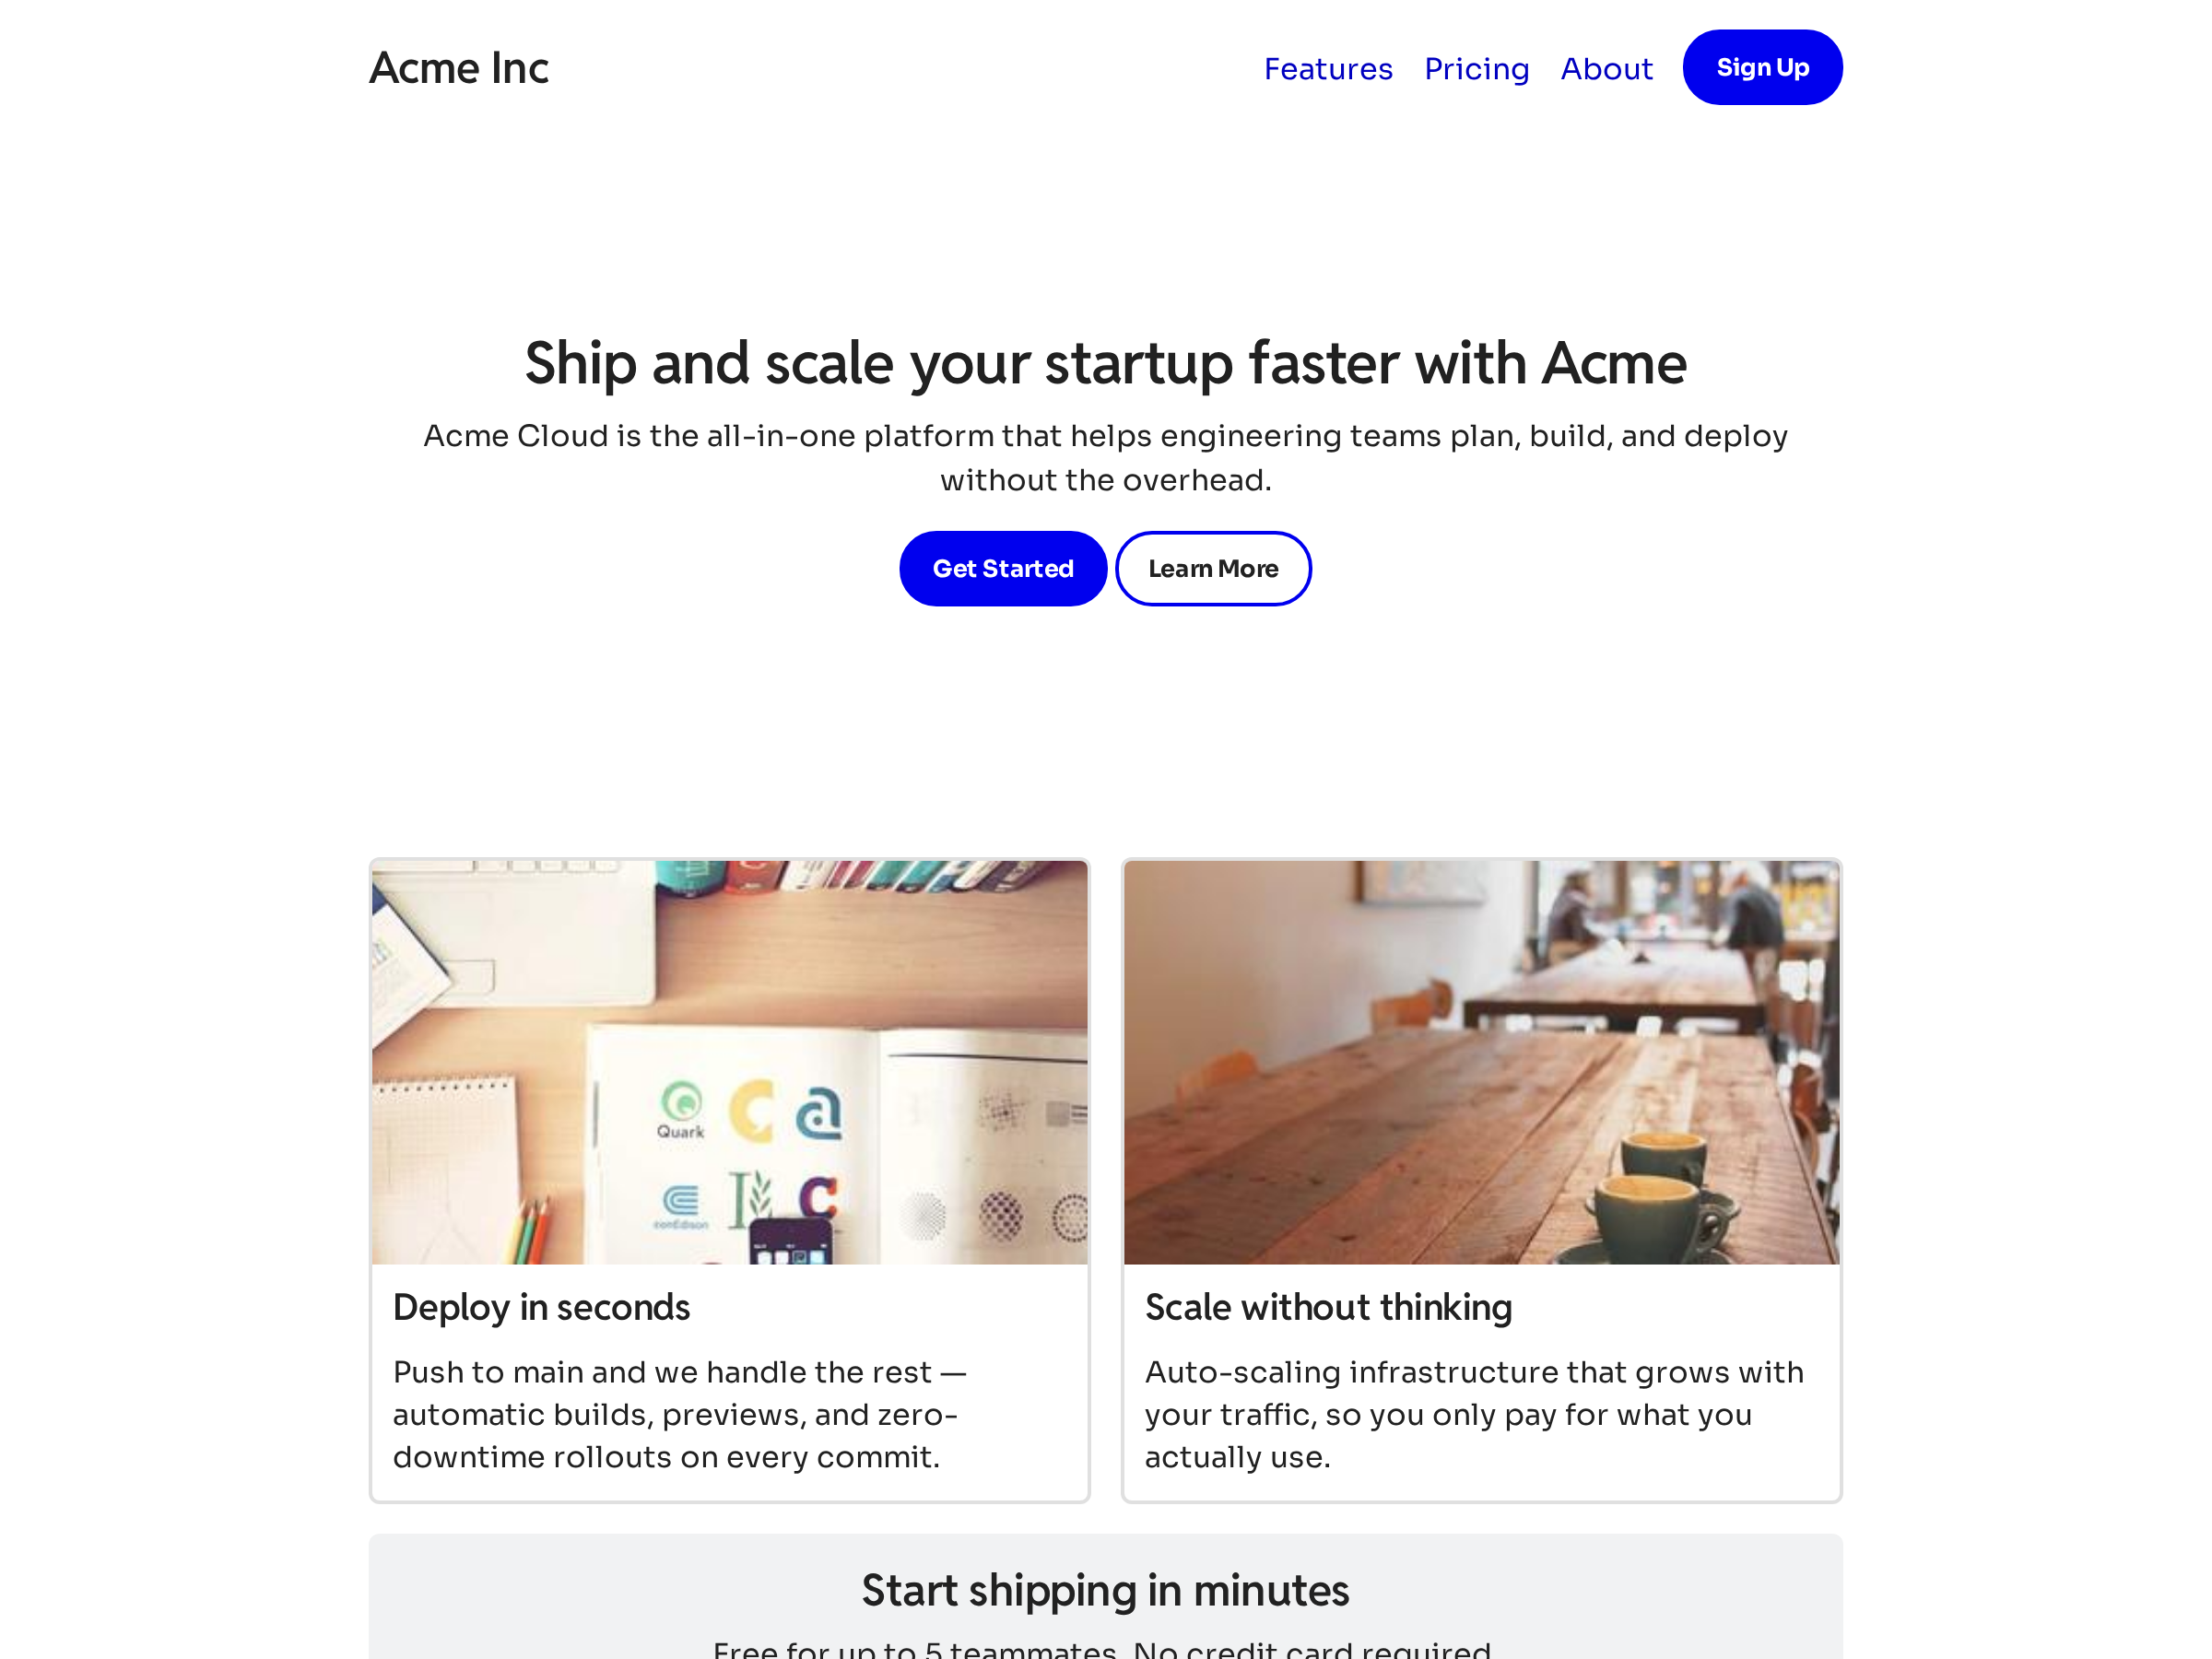
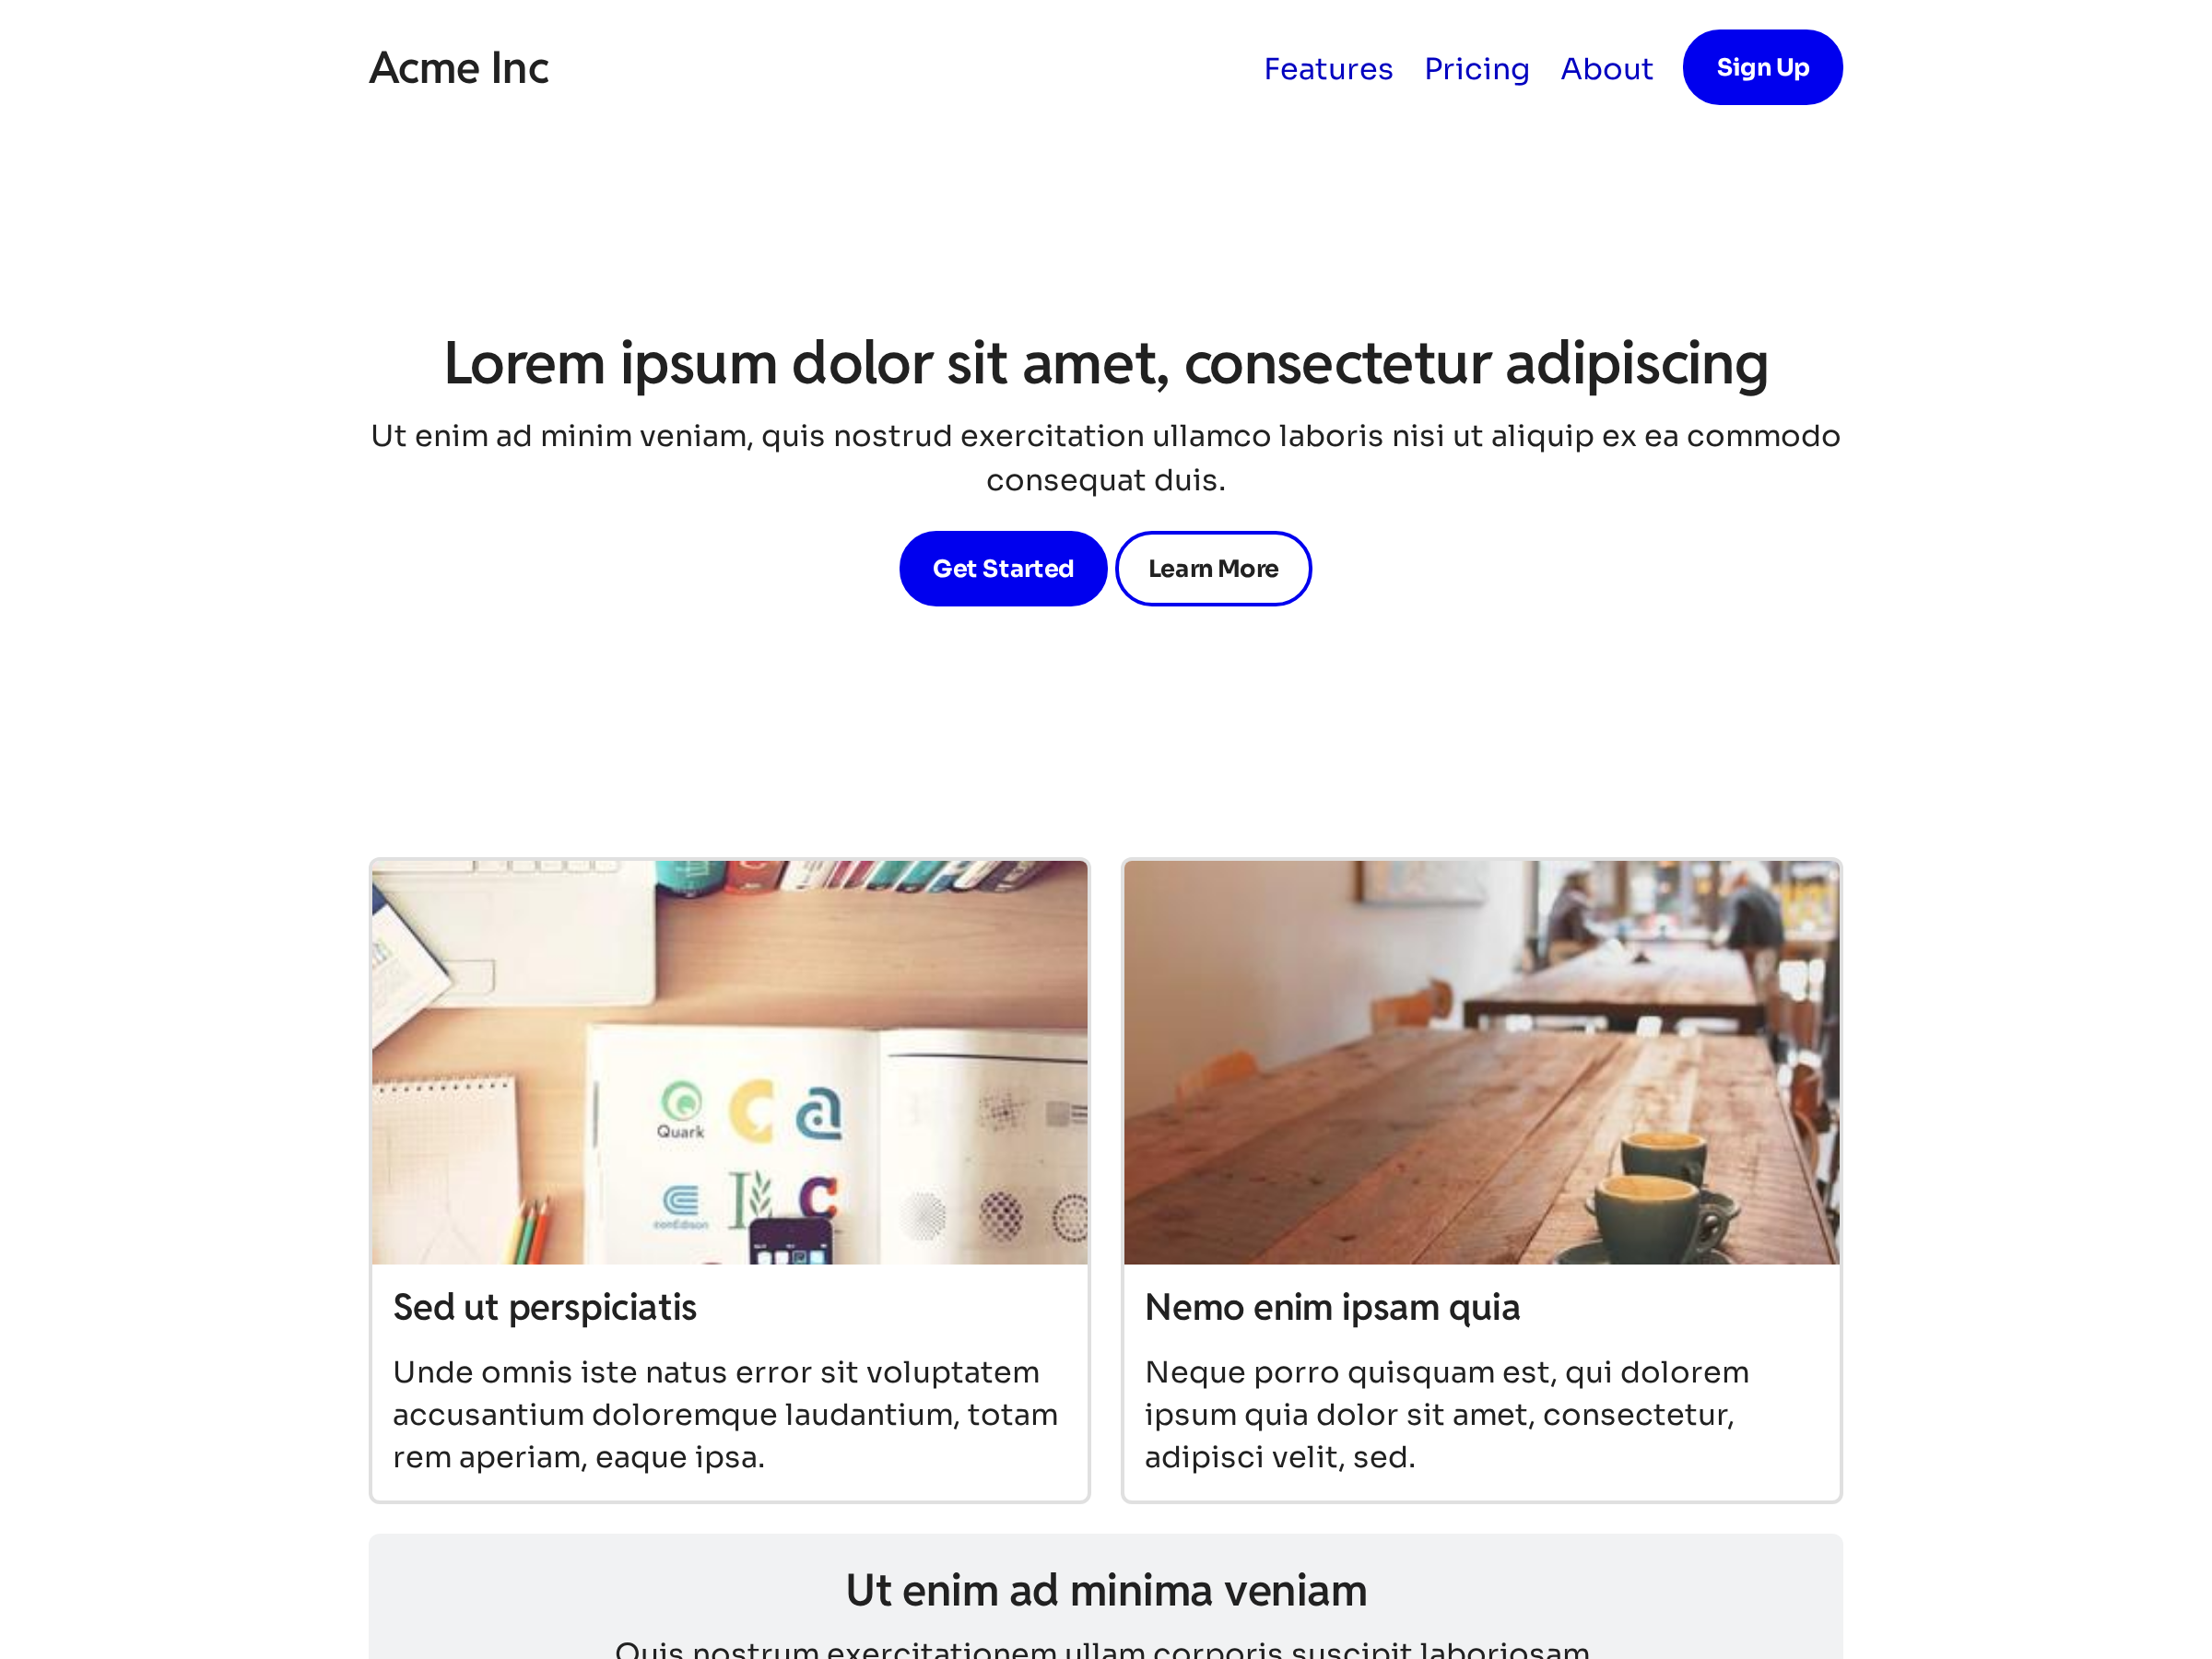
improved default theme a bit

diff --git a/docs/showcase/basic/basic.js b/docs/showcase/basic/basic.js
@@ -42,8 +42,8 @@ function Basic() {
     ] }),
     /* @__PURE__ */ jsx("header", { className: "align-center", children: /* @__PURE__ */ jsxs("div", { children: [
       /* @__PURE__ */ jsxs("hgroup", { children: [
-        /* @__PURE__ */ jsx("h1", { children: "Ship and scale your startup faster with Acme" }),
-        /* @__PURE__ */ jsx("p", { children: "Acme Cloud is the all-in-one platform that helps engineering teams plan, build, and deploy without the overhead." })
+        /* @__PURE__ */ jsx("h1", { children: "Lorem ipsum dolor sit amet, consectetur adipiscing" }),
+        /* @__PURE__ */ jsx("p", { children: "Ut enim ad minim veniam, quis nostrud exercitation ullamco laboris nisi ut aliquip ex ea commodo consequat duis." })
       ] }),
       /* @__PURE__ */ jsxs("div", { children: [
         /* @__PURE__ */ jsx("button", { children: "Get Started" }),
@@ -54,19 +54,19 @@ function Basic() {
       /* @__PURE__ */ jsxs("div", { className: "row", children: [
         /* @__PURE__ */ jsxs("article", { children: [
           /* @__PURE__ */ jsx("img", { width: "100%", style: { aspectRatio: 16 / 9 }, src: "https://picsum.photos/id/20/600/200" }),
-          /* @__PURE__ */ jsx("h3", { children: "Deploy in seconds" }),
-          /* @__PURE__ */ jsx("p", { children: "Push to main and we handle the rest \u2014 automatic builds, previews, and zero-downtime rollouts on every commit." })
+          /* @__PURE__ */ jsx("h3", { children: "Sed ut perspiciatis" }),
+          /* @__PURE__ */ jsx("p", { children: "Unde omnis iste natus error sit voluptatem accusantium doloremque laudantium, totam rem aperiam, eaque ipsa." })
         ] }),
         /* @__PURE__ */ jsxs("article", { children: [
           /* @__PURE__ */ jsx("img", { width: "100%", style: { aspectRatio: 16 / 9 }, src: "https://picsum.photos/id/42/600/200" }),
-          /* @__PURE__ */ jsx("h3", { children: "Scale without thinking" }),
-          /* @__PURE__ */ jsx("p", { children: "Auto-scaling infrastructure that grows with your traffic, so you only pay for what you actually use." })
+          /* @__PURE__ */ jsx("h3", { children: "Nemo enim ipsam quia" }),
+          /* @__PURE__ */ jsx("p", { children: "Neque porro quisquam est, qui dolorem ipsum quia dolor sit amet, consectetur, adipisci velit, sed." })
         ] })
       ] }),
       /* @__PURE__ */ jsx("header", { className: "align-center secondary", children: /* @__PURE__ */ jsxs("aside", { children: [
         /* @__PURE__ */ jsxs("hgroup", { children: [
-          /* @__PURE__ */ jsx("h2", { children: "Start shipping in minutes" }),
-          /* @__PURE__ */ jsx("p", { children: "Free for up to 5 teammates. No credit card required." })
+          /* @__PURE__ */ jsx("h2", { children: "Ut enim ad minima veniam" }),
+          /* @__PURE__ */ jsx("p", { children: "Quis nostrum exercitationem ullam corporis suscipit laboriosam." })
         ] }),
         /* @__PURE__ */ jsx("p", { children: /* @__PURE__ */ jsxs("button", { children: [
           /* @__PURE__ */ jsx("span", { children: "Sign up for free" }),
@@ -79,9 +79,9 @@ function Basic() {
     ] }),
     /* @__PURE__ */ jsx("hr", {}),
     /* @__PURE__ */ jsx("footer", { children: /* @__PURE__ */ jsx("div", { children: /* @__PURE__ */ jsxs("div", { className: "row", children: [
-      /* @__PURE__ */ jsxs("div", { children: [
+      /* @__PURE__ */ jsxs("div", { className: "col-6", children: [
         /* @__PURE__ */ jsx("h5", { children: "About us" }),
-        /* @__PURE__ */ jsx("p", { children: "Acme Cloud gives modern engineering teams the infrastructure to ship products customers love." })
+        /* @__PURE__ */ jsx("p", { children: "Quis autem vel eum iure reprehenderit qui in ea voluptate velit esse quam nihil molestiae." })
       ] }),
       /* @__PURE__ */ jsxs("div", { children: [
         /* @__PURE__ */ jsx("h5", { children: "Quick Links" }),

diff --git a/showcase/basic/Basic.tsx b/showcase/basic/Basic.tsx
@@ -66,10 +66,10 @@ export default function Basic() {
         <div>
           <hgroup>
             <h1>
-              Ship and scale your startup faster with Acme
+              Lorem ipsum dolor sit amet, consectetur adipiscing
             </h1>
             <p>
-              Acme Cloud is the all-in-one platform that helps engineering teams plan, build, and deploy without the overhead.
+              Ut enim ad minim veniam, quis nostrud exercitation ullamco laboris nisi ut aliquip ex ea commodo consequat duis.
             </p>
           </hgroup>
           <div>
@@ -82,21 +82,21 @@ export default function Basic() {
         <div className="row">
           <article>
             <img width={"100%"} style={{ aspectRatio: 16.0 / 9.0 }} src="https://picsum.photos/id/20/600/200" />
-            <h3>Deploy in seconds</h3>
-            <p>Push to main and we handle the rest — automatic builds, previews, and zero-downtime rollouts on every commit.</p>
+            <h3>Sed ut perspiciatis</h3>
+            <p>Unde omnis iste natus error sit voluptatem accusantium doloremque laudantium, totam rem aperiam, eaque ipsa.</p>
           </article>
           <article>
             <img width={"100%"} style={{ aspectRatio: 16.0 / 9.0 }} src="https://picsum.photos/id/42/600/200" />
-            <h3>Scale without thinking</h3>
-            <p>Auto-scaling infrastructure that grows with your traffic, so you only pay for what you actually use.</p>
+            <h3>Nemo enim ipsam quia</h3>
+            <p>Neque porro quisquam est, qui dolorem ipsum quia dolor sit amet, consectetur, adipisci velit, sed.</p>
           </article>
         </div>
 
         <header className="align-center secondary">
           <aside>
             <hgroup>
-              <h2>Start shipping in minutes</h2>
-              <p>Free for up to 5 teammates. No credit card required.</p>
+              <h2>Ut enim ad minima veniam</h2>
+              <p>Quis nostrum exercitationem ullam corporis suscipit laboriosam.</p>
             </hgroup>
             <p>
               <button>
@@ -111,10 +111,10 @@ export default function Basic() {
       <footer>
         <div>
           <div className="row">
-            <div>
+            <div className="col-6">
               <h5>About us</h5>
               <p>
-                Acme Cloud gives modern engineering teams the infrastructure to ship products customers love.
+                 Quis autem vel eum iure reprehenderit qui in ea voluptate velit esse quam nihil molestiae.
               </p>
             </div>
             <div>

diff --git a/docs/showcase/basic/basic.html b/docs/showcase/basic/basic.html
@@ -1,2 +1,2 @@
 <!DOCTYPE html>
-<html lang="en"><head><meta charSet="utf-8"/><meta name="viewport" content="width=device-width, initial-scale=1.0"/><link rel="preload" as="image" href="https://picsum.photos/id/20/600/200"/><link rel="preload" as="image" href="https://picsum.photos/id/42/600/200"/><title>Showcase - Basic</title><meta name="description" content="CSS Theme Demo"/><meta name="author" content="CSS Theme"/><meta name="color-scheme" content="light dark"/><link rel="stylesheet" href="/res/theme.default.min.css"/><link rel="stylesheet" href="/css-theme/res/theme.default.min.css"/><link rel="stylesheet" href="/showcase/basic/custom.css"/><link rel="stylesheet" href="/css-theme/showcase/basic/custom.css"/></head><body><div><div id="root"><header class="hide-on-mobile"><nav><ul><li><h2>Acme Inc</h2></li><div></div><li><a href="">Features</a></li><li><a href="">Pricing</a></li><li><a href="">About</a></li><li><button>Sign Up</button></li></ul></nav></header><header class="hide-on-desktop"><nav class="disable-mobile"><ul><li><h2>Acme Inc</h2></li><div></div><li><button type="reset"><svg xmlns="http://www.w3.org/2000/svg" width="24" height="24" viewBox="0 0 24 24" fill="none" stroke="currentColor" stroke-width="2" stroke-linecap="round" stroke-linejoin="round"><path d="M4 5h16"></path><path d="M4 12h16"></path><path d="M4 19h16"></path></svg></button></li></ul></nav></header><header class="align-center"><div><hgroup><h1>Ship and scale your startup faster with Acme</h1><p>Acme Cloud is the all-in-one platform that helps engineering teams plan, build, and deploy without the overhead.</p></hgroup><div><button>Get Started</button><button type="reset">Learn More</button></div></div></header><main><div class="row"><article><img width="100%" style="aspect-ratio:1.7777777777777777" src="https://picsum.photos/id/20/600/200"/><h3>Deploy in seconds</h3><p>Push to main and we handle the rest — automatic builds, previews, and zero-downtime rollouts on every commit.</p></article><article><img width="100%" style="aspect-ratio:1.7777777777777777" src="https://picsum.photos/id/42/600/200"/><h3>Scale without thinking</h3><p>Auto-scaling infrastructure that grows with your traffic, so you only pay for what you actually use.</p></article></div><header class="align-center secondary"><aside><hgroup><h2>Start shipping in minutes</h2><p>Free for up to 5 teammates. No credit card required.</p></hgroup><p><button><span>Sign up for free</span><svg xmlns="http://www.w3.org/2000/svg" width="24" height="24" viewBox="0 0 24 24" fill="none" stroke="currentColor" stroke-width="2" stroke-linecap="round" stroke-linejoin="round"><path d="M5 12h14"></path><path d="m12 5 7 7-7 7"></path></svg></button></p></aside></header></main><hr/><footer><div><div class="row"><div><h5>About us</h5><p>Acme Cloud gives modern engineering teams the infrastructure to ship products customers love.</p></div><div><h5>Quick Links</h5><nav><ul class="secondary"><li><a href="">Features</a></li><li><a href="">Pricing</a></li><li><a href="">About</a></li></ul></nav></div><div><h5>Legal</h5><nav><ul class="secondary"><li><a href="">Privacy Policy</a></li><li><a href="">Terms of Service</a></li></ul></nav></div></div></div></footer></div><script>globalThis.__INITIAL_PROPS__ = {};</script><script type="module" src="./basic.js"></script></div></body></html>
+<html lang="en"><head><meta charSet="utf-8"/><meta name="viewport" content="width=device-width, initial-scale=1.0"/><link rel="preload" as="image" href="https://picsum.photos/id/20/600/200"/><link rel="preload" as="image" href="https://picsum.photos/id/42/600/200"/><title>Showcase - Basic</title><meta name="description" content="CSS Theme Demo"/><meta name="author" content="CSS Theme"/><meta name="color-scheme" content="light dark"/><link rel="stylesheet" href="/res/theme.default.min.css"/><link rel="stylesheet" href="/css-theme/res/theme.default.min.css"/><link rel="stylesheet" href="/showcase/basic/custom.css"/><link rel="stylesheet" href="/css-theme/showcase/basic/custom.css"/></head><body><div><div id="root"><header class="hide-on-mobile"><nav><ul><li><h2>Acme Inc</h2></li><div></div><li><a href="">Features</a></li><li><a href="">Pricing</a></li><li><a href="">About</a></li><li><button>Sign Up</button></li></ul></nav></header><header class="hide-on-desktop"><nav class="disable-mobile"><ul><li><h2>Acme Inc</h2></li><div></div><li><button type="reset"><svg xmlns="http://www.w3.org/2000/svg" width="24" height="24" viewBox="0 0 24 24" fill="none" stroke="currentColor" stroke-width="2" stroke-linecap="round" stroke-linejoin="round"><path d="M4 5h16"></path><path d="M4 12h16"></path><path d="M4 19h16"></path></svg></button></li></ul></nav></header><header class="align-center"><div><hgroup><h1>Lorem ipsum dolor sit amet, consectetur adipiscing</h1><p>Ut enim ad minim veniam, quis nostrud exercitation ullamco laboris nisi ut aliquip ex ea commodo consequat duis.</p></hgroup><div><button>Get Started</button><button type="reset">Learn More</button></div></div></header><main><div class="row"><article><img width="100%" style="aspect-ratio:1.7777777777777777" src="https://picsum.photos/id/20/600/200"/><h3>Sed ut perspiciatis</h3><p>Unde omnis iste natus error sit voluptatem accusantium doloremque laudantium, totam rem aperiam, eaque ipsa.</p></article><article><img width="100%" style="aspect-ratio:1.7777777777777777" src="https://picsum.photos/id/42/600/200"/><h3>Nemo enim ipsam quia</h3><p>Neque porro quisquam est, qui dolorem ipsum quia dolor sit amet, consectetur, adipisci velit, sed.</p></article></div><header class="align-center secondary"><aside><hgroup><h2>Ut enim ad minima veniam</h2><p>Quis nostrum exercitationem ullam corporis suscipit laboriosam.</p></hgroup><p><button><span>Sign up for free</span><svg xmlns="http://www.w3.org/2000/svg" width="24" height="24" viewBox="0 0 24 24" fill="none" stroke="currentColor" stroke-width="2" stroke-linecap="round" stroke-linejoin="round"><path d="M5 12h14"></path><path d="m12 5 7 7-7 7"></path></svg></button></p></aside></header></main><hr/><footer><div><div class="row"><div class="col-6"><h5>About us</h5><p>Quis autem vel eum iure reprehenderit qui in ea voluptate velit esse quam nihil molestiae.</p></div><div><h5>Quick Links</h5><nav><ul class="secondary"><li><a href="">Features</a></li><li><a href="">Pricing</a></li><li><a href="">About</a></li></ul></nav></div><div><h5>Legal</h5><nav><ul class="secondary"><li><a href="">Privacy Policy</a></li><li><a href="">Terms of Service</a></li></ul></nav></div></div></div></footer></div><script>globalThis.__INITIAL_PROPS__ = {};</script><script type="module" src="./basic.js"></script></div></body></html>

diff --git a/docs/showcase/newsletter/newsletter.html b/docs/showcase/newsletter/newsletter.html
@@ -1,2 +1,2 @@
 <!DOCTYPE html>
-<html lang="en"><head><meta charSet="utf-8"/><meta name="viewport" content="width=device-width, initial-scale=1.0"/><link rel="preload" as="image" href="https://picsum.photos/id/16/640/480"/><title>Showcase - Newsletter</title><meta name="description" content="CSS Theme Demo"/><meta name="author" content="CSS Theme"/><meta name="color-scheme" content="light dark"/><link rel="stylesheet" href="/res/theme.default.min.css"/><link rel="stylesheet" href="/css-theme/res/theme.default.min.css"/><link rel="stylesheet" href="/showcase/newsletter/custom.css"/><link rel="stylesheet" href="/css-theme/showcase/newsletter/custom.css"/></head><body><div><div id="root"><header><nav class="disable-mobile"><ul><li><svg width="30" height="30" viewBox="0 0 30 30"><defs><clipPath id="e5kpn1emgp"><circle cx="15" cy="15" r="15"></circle></clipPath></defs><image href="https://picsum.photos/id/42/30/30" width="30" height="30" clip-path="url(#e5kpn1emgp)" preserveAspectRatio="xMidYMid slice"></image></svg></li><div></div><li class="align-center"><h3>My Newsletter</h3></li><div></div><li><button>Subscribe</button></li></ul></nav></header><main><section><hgroup><h1>Lorem ipsum dolor sit amet</h1><h5>Lorem ipsum dolor sit amet, consectetur adipiscing elit</h5></hgroup><div role="group"><div class="row"><svg width="40" height="40" viewBox="0 0 40 40"><defs><clipPath id="x0n2cg4h2c"><circle cx="20" cy="20" r="20"></circle></clipPath></defs><image href="https://picsum.photos/id/50/40/40" width="40" height="40" clip-path="url(#x0n2cg4h2c)" preserveAspectRatio="xMidYMid slice"></image></svg><div><span>Author Name</span><br/><span><small>Published today • Paid</small></span></div></div></div><hr/><div class="row disable-mobile"><div><button type="reset"><svg xmlns="http://www.w3.org/2000/svg" width="24" height="24" viewBox="0 0 24 24" fill="none" stroke="currentColor" stroke-width="2" stroke-linecap="round" stroke-linejoin="round"><path d="M2 9.5a5.[phone redacted].[phone redacted] .818 0A5.[phone redacted].5c0 [phone redacted].5l-5.492 5.313a2 2 0 0 1-3 .019L5 15c-[phone redacted]"></path></svg><span>130</span></button><button type="reset"><svg xmlns="http://www.w3.org/2000/svg" width="24" height="24" viewBox="0 0 24 24" fill="none" stroke="currentColor" stroke-width="2" stroke-linecap="round" stroke-linejoin="round"><path d="M2.992 16.342a2 2 0 0 1 .094 1.167l-1.065 3.29a1 [phone redacted].168l3.413-.998a2 [phone redacted] [phone redacted]"></path></svg><span>20</span></button><button type="reset"><svg xmlns="http://www.w3.org/2000/svg" width="24" height="24" viewBox="0 0 24 24" fill="none" stroke="currentColor" stroke-width="2" stroke-linecap="round" stroke-linejoin="round"><path d="m2 9 3-3 3 3"></path><path d="M13 18H7a2 2 0 0 1-2-2V6"></path><path d="m22 15-3 3-3-3"></path><path d="M11 6h6a2 2 0 0 1 2 2v10"></path></svg><span>5</span></button></div><button type="reset">Share</button></div><hr/><p>Lorem ipsum dolor sit amet, consectetur adipiscing elit, sed do eiusmod tempor incididunt ut labore et dolore magna aliqua. Ut enim ad minim veniam, quis nostrud exercitation ullamco laboris nisi ut aliquip ex ea commodo consequat. Duis aute irure dolor in reprehenderit in voluptate velit esse cillum dolore eu fugiat nulla pariatur. Excepteur sint occaecat cupidatat non proident, sunt in culpa qui officia deserunt mollit anim id est laborum.</p><p>Sed ut perspiciatis unde omnis iste natus error sit voluptatem accusantium doloremque laudantium, totam rem aperiam, eaque ipsa quae ab illo inventore veritatis et quasi architecto beatae vitae dicta sunt explicabo. Nemo enim ipsam voluptatem quia voluptas sit aspernatur aut odit aut fugit, sed quia consequuntur magni dolores eos qui ratione voluptatem sequi nesciunt.</p><p>Neque porro quisquam est, qui dolorem ipsum quia dolor sit amet, consectetur, adipisci velit, sed quia non numquam eius modi tempora incidunt ut labore et dolore magnam aliquam quaerat voluptatem. Ut enim ad minima veniam, quis nostrum exercitationem ullam corporis suscipit laboriosam, nisi ut aliquid ex ea commodi consequatur? Quis autem vel eum iure reprehenderit qui in ea voluptate velit esse quam nihil molestiae consequatur, vel illum qui dolorem eum fugiat quo voluptas nulla pariatur?</p><figure><img width="100%" src="https://picsum.photos/id/16/640/480" alt="ssample image "/><figcaption>Lorem ipsum dolor sit amet, consectetur adipiscing elit</figcaption></figure><p>At vero eos et accusamus et iusto odio dignissimos ducimus qui blanditiis praesentium voluptatum deleniti atque corrupti quos dolores et quas molestias excepturi sint occaecati cupiditate non provident</p><blockquote><p>Itaque earum rerum hic tenetur a sapiente delectus, ut aut reiciendis voluptatibus maiores alias consequatur aut perferendis doloribus asperiores repellat</p><cite>- Author</cite></blockquote><p>Nam libero tempore, cum soluta nobis est eligendi optio cumque nihil impedit quo minus id quod maxime placeat facere possimus, omnis voluptas assumenda est, omnis dolor repellendus. Temporibus autem quibusdam et aut officiis debitis aut rerum necessitatibus saepe eveniet ut et voluptates repudiandae sint et molestiae non recusandae.</p><hr/><div class="align-center row"><div class="col-2"></div><div><form><p>This is a reader supported newsletter. Subscribe to get the latest article directly in your inbox.</p><input id="email" required="" type="email" placeholder="Type your email..."/><input id="subscribe" type="submit" value="Subscribe"/></form></div><div class="col-2"></div></div></section></main><footer><nav><ul><li><a href="">Terms of service</a></li><li><a href="">Privacy</a></li><li><a href="">About</a></li></ul></nav></footer></div><script>globalThis.__INITIAL_PROPS__ = {};</script><script type="module" src="./newsletter.js"></script></div></body></html>
+<html lang="en"><head><meta charSet="utf-8"/><meta name="viewport" content="width=device-width, initial-scale=1.0"/><link rel="preload" as="image" href="https://picsum.photos/id/16/640/480"/><title>Showcase - Newsletter</title><meta name="description" content="CSS Theme Demo"/><meta name="author" content="CSS Theme"/><meta name="color-scheme" content="light dark"/><link rel="stylesheet" href="/res/theme.default.min.css"/><link rel="stylesheet" href="/css-theme/res/theme.default.min.css"/><link rel="stylesheet" href="/showcase/newsletter/custom.css"/><link rel="stylesheet" href="/css-theme/showcase/newsletter/custom.css"/></head><body><div><div id="root"><header><nav class="disable-mobile"><ul><li><svg width="30" height="30" viewBox="0 0 30 30"><defs><clipPath id="nnklsvvylh"><circle cx="15" cy="15" r="15"></circle></clipPath></defs><image href="https://picsum.photos/id/42/30/30" width="30" height="30" clip-path="url(#nnklsvvylh)" preserveAspectRatio="xMidYMid slice"></image></svg></li><div></div><li class="align-center"><h3>My Newsletter</h3></li><div></div><li><button>Subscribe</button></li></ul></nav></header><main><section><hgroup><h1>Lorem ipsum dolor sit amet</h1><h5>Lorem ipsum dolor sit amet, consectetur adipiscing elit</h5></hgroup><div role="group"><div class="row"><svg width="40" height="40" viewBox="0 0 40 40"><defs><clipPath id="qsrlym3mb1"><circle cx="20" cy="20" r="20"></circle></clipPath></defs><image href="https://picsum.photos/id/50/40/40" width="40" height="40" clip-path="url(#qsrlym3mb1)" preserveAspectRatio="xMidYMid slice"></image></svg><div><span>Author Name</span><br/><span><small>Published today • Paid</small></span></div></div></div><hr/><div class="row disable-mobile"><div><button type="reset"><svg xmlns="http://www.w3.org/2000/svg" width="24" height="24" viewBox="0 0 24 24" fill="none" stroke="currentColor" stroke-width="2" stroke-linecap="round" stroke-linejoin="round"><path d="M2 9.5a5.[phone redacted].[phone redacted] .818 0A5.[phone redacted].5c0 [phone redacted].5l-5.492 5.313a2 2 0 0 1-3 .019L5 15c-[phone redacted]"></path></svg><span>130</span></button><button type="reset"><svg xmlns="http://www.w3.org/2000/svg" width="24" height="24" viewBox="0 0 24 24" fill="none" stroke="currentColor" stroke-width="2" stroke-linecap="round" stroke-linejoin="round"><path d="M2.992 16.342a2 2 0 0 1 .094 1.167l-1.065 3.29a1 [phone redacted].168l3.413-.998a2 [phone redacted] [phone redacted]"></path></svg><span>20</span></button><button type="reset"><svg xmlns="http://www.w3.org/2000/svg" width="24" height="24" viewBox="0 0 24 24" fill="none" stroke="currentColor" stroke-width="2" stroke-linecap="round" stroke-linejoin="round"><path d="m2 9 3-3 3 3"></path><path d="M13 18H7a2 2 0 0 1-2-2V6"></path><path d="m22 15-3 3-3-3"></path><path d="M11 6h6a2 2 0 0 1 2 2v10"></path></svg><span>5</span></button></div><button type="reset">Share</button></div><hr/><p>Lorem ipsum dolor sit amet, consectetur adipiscing elit, sed do eiusmod tempor incididunt ut labore et dolore magna aliqua. Ut enim ad minim veniam, quis nostrud exercitation ullamco laboris nisi ut aliquip ex ea commodo consequat. Duis aute irure dolor in reprehenderit in voluptate velit esse cillum dolore eu fugiat nulla pariatur. Excepteur sint occaecat cupidatat non proident, sunt in culpa qui officia deserunt mollit anim id est laborum.</p><p>Sed ut perspiciatis unde omnis iste natus error sit voluptatem accusantium doloremque laudantium, totam rem aperiam, eaque ipsa quae ab illo inventore veritatis et quasi architecto beatae vitae dicta sunt explicabo. Nemo enim ipsam voluptatem quia voluptas sit aspernatur aut odit aut fugit, sed quia consequuntur magni dolores eos qui ratione voluptatem sequi nesciunt.</p><p>Neque porro quisquam est, qui dolorem ipsum quia dolor sit amet, consectetur, adipisci velit, sed quia non numquam eius modi tempora incidunt ut labore et dolore magnam aliquam quaerat voluptatem. Ut enim ad minima veniam, quis nostrum exercitationem ullam corporis suscipit laboriosam, nisi ut aliquid ex ea commodi consequatur? Quis autem vel eum iure reprehenderit qui in ea voluptate velit esse quam nihil molestiae consequatur, vel illum qui dolorem eum fugiat quo voluptas nulla pariatur?</p><figure><img width="100%" src="https://picsum.photos/id/16/640/480" alt="ssample image "/><figcaption>Lorem ipsum dolor sit amet, consectetur adipiscing elit</figcaption></figure><p>At vero eos et accusamus et iusto odio dignissimos ducimus qui blanditiis praesentium voluptatum deleniti atque corrupti quos dolores et quas molestias excepturi sint occaecati cupiditate non provident</p><blockquote><p>Itaque earum rerum hic tenetur a sapiente delectus, ut aut reiciendis voluptatibus maiores alias consequatur aut perferendis doloribus asperiores repellat</p><cite>- Author</cite></blockquote><p>Nam libero tempore, cum soluta nobis est eligendi optio cumque nihil impedit quo minus id quod maxime placeat facere possimus, omnis voluptas assumenda est, omnis dolor repellendus. Temporibus autem quibusdam et aut officiis debitis aut rerum necessitatibus saepe eveniet ut et voluptates repudiandae sint et molestiae non recusandae.</p><hr/><div class="align-center row"><div class="col-2"></div><div><form><p>This is a reader supported newsletter. Subscribe to get the latest article directly in your inbox.</p><input id="email" required="" type="email" placeholder="Type your email..."/><input id="subscribe" type="submit" value="Subscribe"/></form></div><div class="col-2"></div></div></section></main><footer><nav><ul><li><a href="">Terms of service</a></li><li><a href="">Privacy</a></li><li><a href="">About</a></li></ul></nav></footer></div><script>globalThis.__INITIAL_PROPS__ = {};</script><script type="module" src="./newsletter.js"></script></div></body></html>